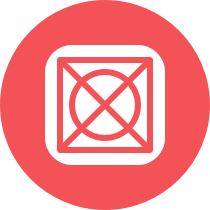
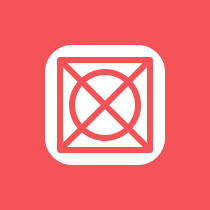
added border radius trumps

diff --git a/source/stylesheets/main.sass b/source/stylesheets/main.sass
@@ -23,7 +23,8 @@
 @import "components.header"
 @import "components.footer"
 @import "components.buttons"
-@import "components.avatars"
 @import "components.captions"
 @import "components.client-logos"
 @import "components.testimonials"
+
+@import "trumps.border-radius"

diff --git a/source/stylesheets/_trumps.border-radius.sass b/source/stylesheets/_trumps.border-radius.sass
@@ -1,0 +1,8 @@
+.t-border-radius--3
+  border-radius: 3px !important
+
+.t-border-radius--6
+  border-radius: 6px !important
+
+.t-border-radius--50
+  border-radius: 50% !important
